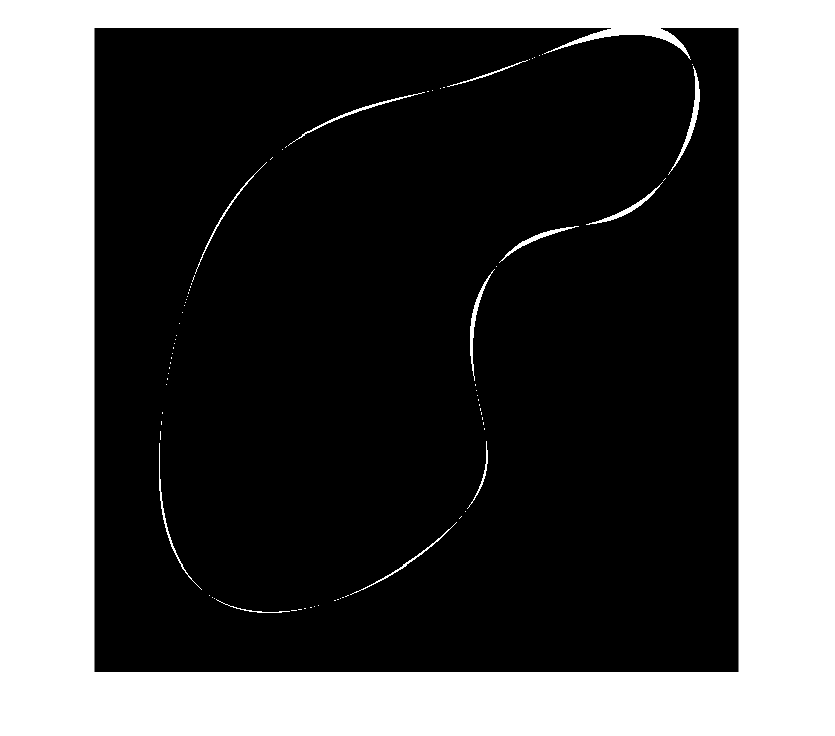
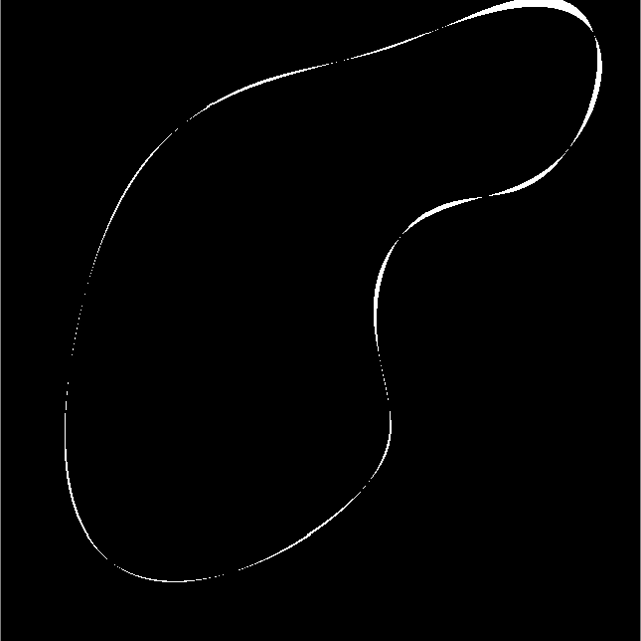
data

diff --git a/Data/Paper/script2.m b/Data/Paper/script2.m
@@ -1,7 +1,7 @@
 clear;
 clc;
 
-n = 2;
+n = 4;
 x_a = - 10;
 x_b = 10;
 y_a = - 10;
@@ -12,24 +12,17 @@ psnr = 30;
 x_n = m_x * (x_b - x_a) + 1;
 y_n = m_y * (y_b - y_a) + 1;
 
-load('/home/wjmolina/Documents/GitHub/ShapeReconstruction/Data/Paper/03/dat.mat', 'IC');
+load('/home/wjm/Documents/GitHub/ShapeReconstruction/Data/Paper/03/dat.mat', 'IC');
 I = GetImageOfPower(IC, - 1, 1, - 1, 1, x_n, y_n);
 
-RC_best = PowerReconstruction(I, n, x_a, x_b, y_a, y_b, psnr);
-R_B_best = GetImageOfPower(RC_best, x_a, x_b, y_a, y_b, x_n, y_n);
+[RC_best, D] = PowerReconstruction(I, n, x_a, x_b, y_a, y_b, psnr);
+R_B_best = ~ GetImageOfPower(RC_best, x_a, x_b, y_a, y_b, x_n, y_n);
 
-for i = 1 : 100
+for i = 1 : 100    
     RC = PowerReconstruction(I, n, x_a, x_b, y_a, y_b, psnr);
-    R_B = GetImageOfPower(RC, x_a, x_b, y_a, y_b, x_n, y_n);
+    R_B = ~ GetImageOfPower(RC, x_a, x_b, y_a, y_b, x_n, y_n);
     
-    if SorensenDiceCoefficient(I, R_B) > SorensenDiceCoefficient(I, R_B_best)
-        RC_best = RC;
-        R_B_best = R_B;
-    end
-    
-    R_B = ~ R_B;
-    
-    if SorensenDiceCoefficient(I, R_B) > SorensenDiceCoefficient(I, R_B_best)
+    if SorensenDiceCoefficient(I, R_B) < SorensenDiceCoefficient(I, R_B_best)
         RC_best = RC;
         R_B_best = R_B;
     end
@@ -37,8 +30,3 @@ end
 
 figure;
 imshow(abs(I - R_B_best));
-
-R_V = VetterliReconstruction(I, x_a, x_b, y_a, y_b, x_n, y_n, psnr);
-
-figure;
-imshow(abs(I - R_V));
